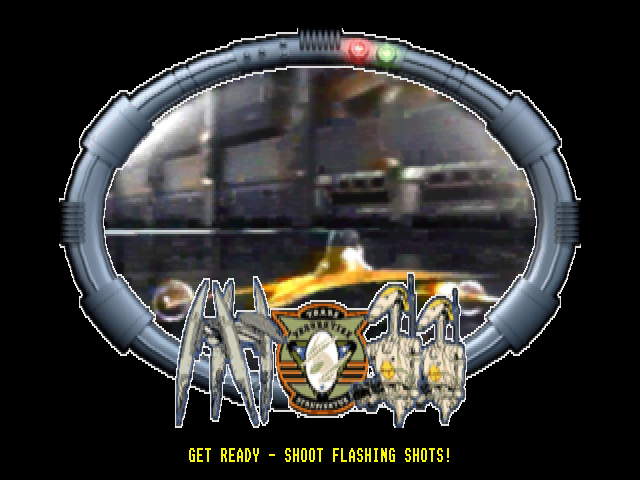
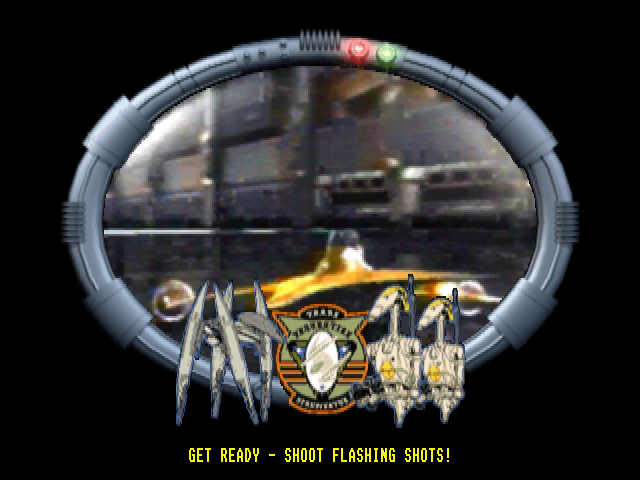
fix(upscaler,compositor): preserve edge-padded RGB and 1-bit alpha to eliminate dark outlines

diff --git a/crates/pin2k-desktop/src/compositor.rs b/crates/pin2k-desktop/src/compositor.rs
@@ -47,12 +47,18 @@ impl LoadedAnim {
                     if scale > 1 {
                         let lw = (rgba.width() / scale).max(1);
                         let lh = (rgba.height() / scale).max(1);
-                        self.decoded_frames.push(image::imageops::resize(
+                        let mut down = image::imageops::resize(
                             &rgba,
                             lw,
                             lh,
                             image::imageops::FilterType::Triangle,
-                        ));
+                        );
+                        // Keep crisp 1-bit Pinball 2000 silhouette alpha so `blit_rgba_ex`
+                        // never draws semi-transparent fringe pixels as solid outlines.
+                        for px in down.pixels_mut() {
+                            px[3] = if px[3] >= 128 { 255 } else { 0 };
+                        }
+                        self.decoded_frames.push(down);
                     } else {
                         self.decoded_frames.push(rgba);
                     }

diff --git a/crates/pin2k-rom-tool/src/upscaler.rs b/crates/pin2k-rom-tool/src/upscaler.rs
@@ -123,12 +123,9 @@ pub fn upscale_rgba_image(
     let mut out = resize(&padded, dst_w, dst_h, filter.to_image_filter());
     if crisp_alpha {
         for px in out.pixels_mut() {
+            // Preserve edge-padded RGB on transparent pixels so downstream bilinear/GPU
+            // downsampling never bleeds black halos into the sprite silhouette.
             px[3] = if px[3] >= 128 { 255 } else { 0 };
-            if px[3] == 0 {
-                px[0] = 0;
-                px[1] = 0;
-                px[2] = 0;
-            }
         }
     }
     out
